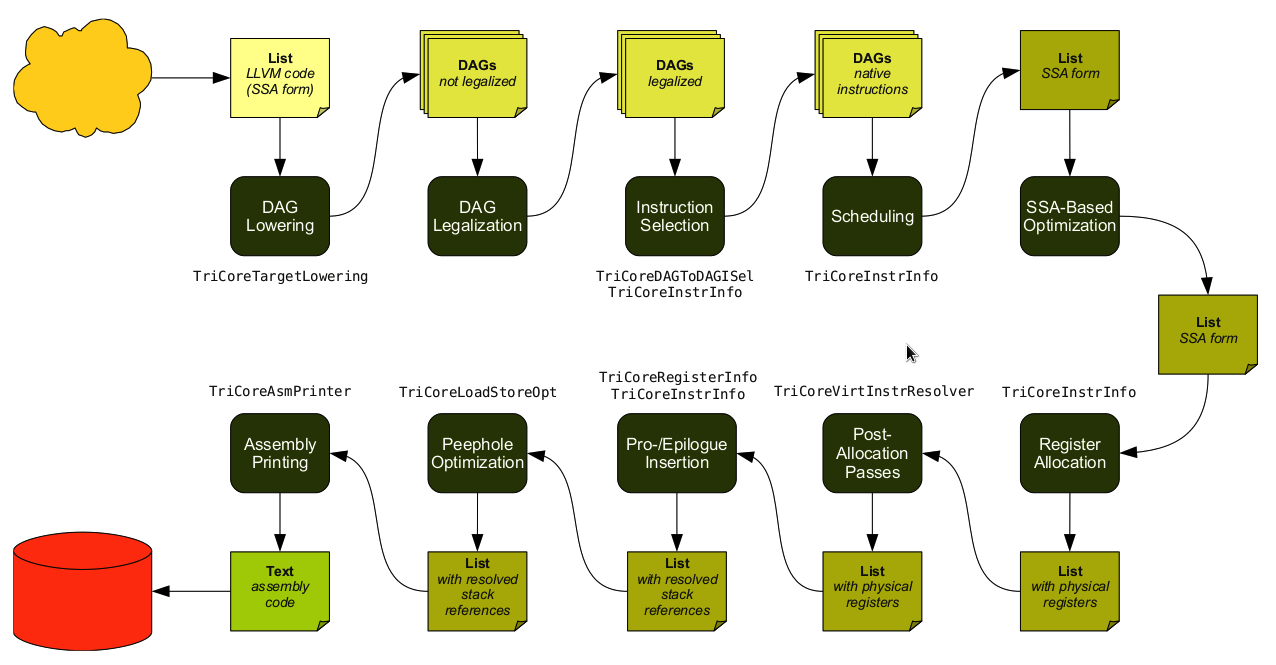
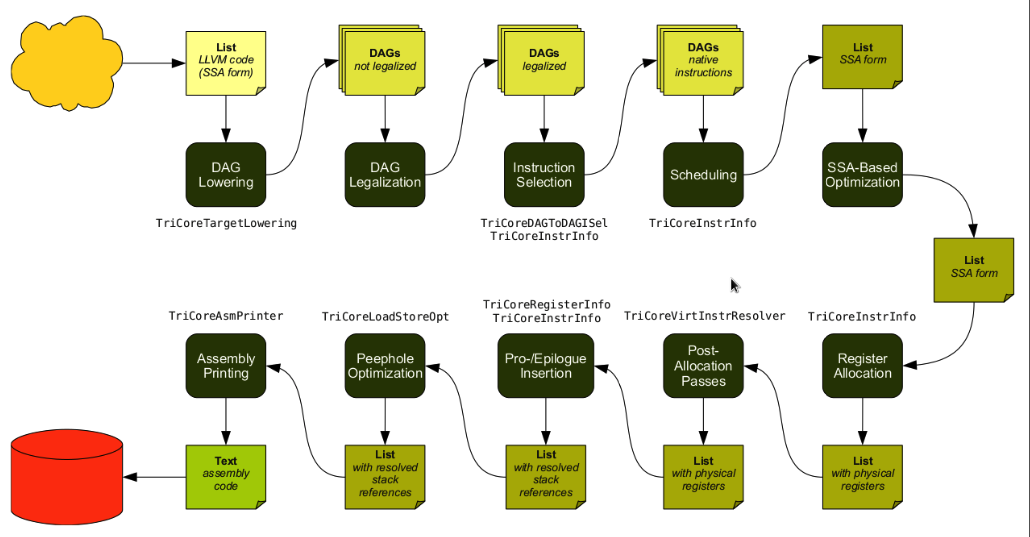
Fix scale side effect issue in pdf

diff --git a/source/install.rst b/source/install.rst
@@ -145,12 +145,7 @@ Build llvm by Xcode
 Now, LLVM.xcodeproj is created. Open the cmake_debug_build/LLVM.xcodeproj by Xcode and 
 click menu “Product – Build” as Fig 1.10.
 
-.. todo:: scale can solve the html picture too big problem but have side effect on pdf.
-
 .. figure:: ../Fig/Fig1_10.png
-	:height: 950 px
-	:width: 1635 px
-	:scale: 60 %
 	:align: center
 
 	Fig 1.10 Click Build button to build LLVM.xcodeproj by Xcode
@@ -240,9 +235,6 @@ Dock as Fig 1.18.
 	Fig 1.17 Type FileMerge in Finder – Applications
 
 .. figure:: ../Fig/Fig1_18.png
-	:height: 193 px
-	:width: 1989 px
-	:scale: 50 %
 	:align: center
 
 	Fig 1.18 Drag FileMege into the Dock

diff --git a/source/backendstructure.rst b/source/backendstructure.rst
@@ -106,9 +106,6 @@ LLVM Code Generation Sequence
 Following diagram came from tricore_llvm.pdf.
 
 .. figure:: ../Fig/Fig3_5.png
-	:height: 665 px
-	:width: 1276 px
-	:scale: 80 %
 	:align: center
 
 	Fig 3.5 of tricore_llvm.pdf: Code generation sequence. On the path from LLVM code to assembly code, numerous passes are run through and several data structures are used to represent the intermediate results.
